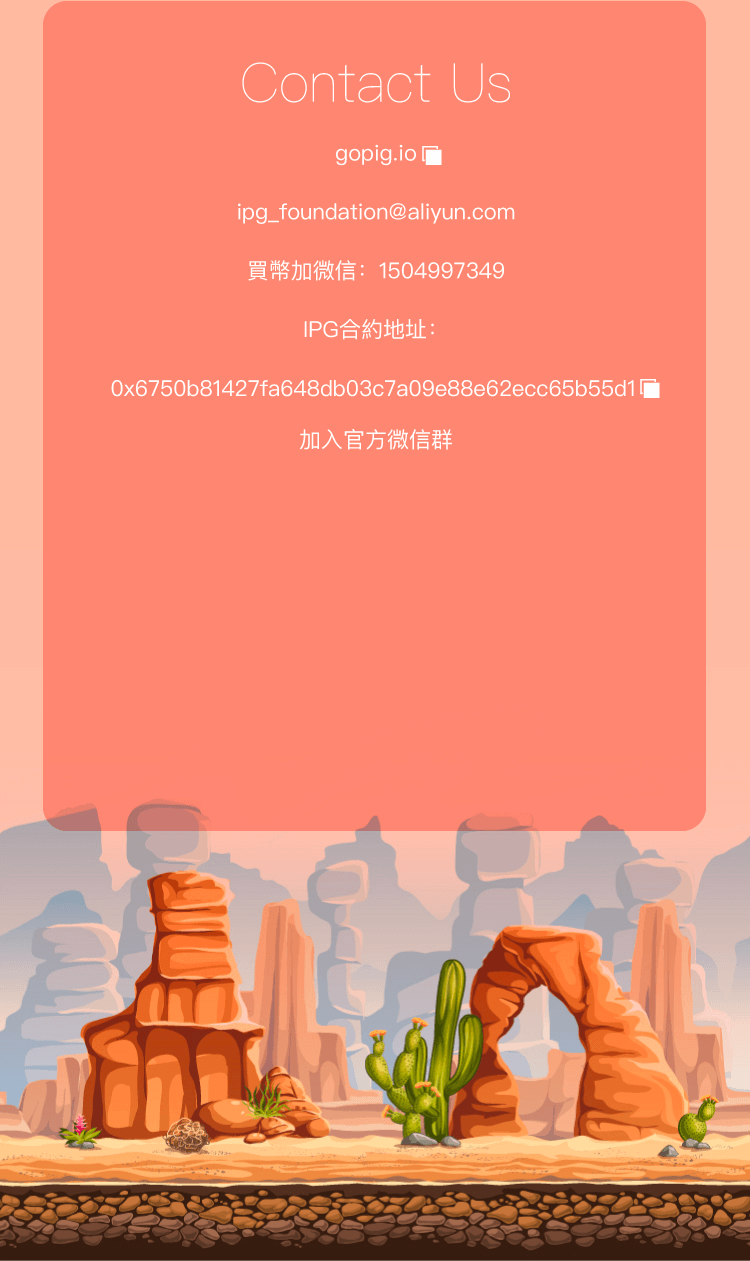
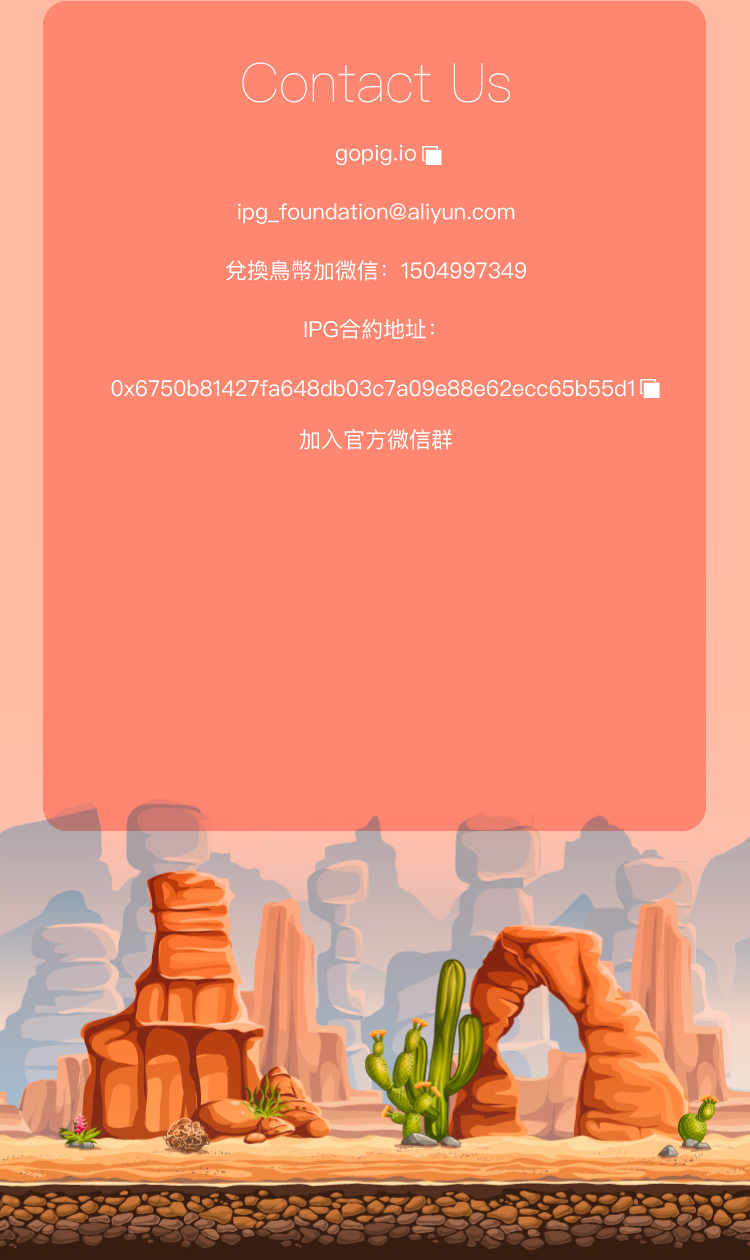
1

diff --git a/c/index.html b/c/index.html
@@ -500,7 +500,7 @@
 				<img style="width: 20%;margin-left: 40%" src="images/zc12.png" />
 				<div style="margin-top: 0.6rem;font-size: 0.2rem;">gopig.io&nbsp;<span data-clipboard-text="gopig.io" style="" class="glyphicon glyphicon-book btn1"></span></div>
 				<div style="margin-top: 0.1rem;font-size: 0.2rem;">郵箱：info@gopig.io</div>
-				<div style="margin-top: 0.1rem;font-size: 0.2rem;">買幣加微信：1504997349</div>
+				<div style="margin-top: 0.1rem;font-size: 0.2rem;">兌換鳥幣加微信：1504997349</div>
 				<div style="margin-top: 0.1rem;font-size: 0.2rem;">合約地址：</div>
 				<div style="margin-top: 0.1rem;font-size: 0.2rem;">0x6750b81427fa648db03c7a09e88e62ecc65b55d1 &nbsp;<span data-clipboard-text="0x6750b81427fa648db03c7a09e88e62ecc65b55d1" style="" class="btn2 glyphicon glyphicon-book"></span></div>
 				<div style="margin-top: 0.1rem;font-size: 0.2rem;">Telegram：t.me/gopig</div>
